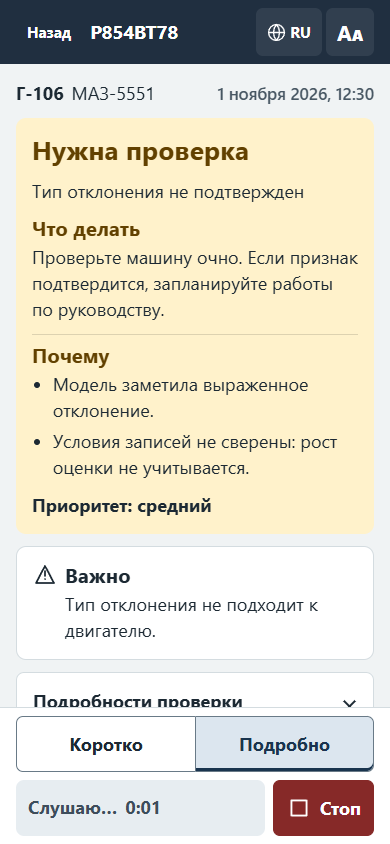
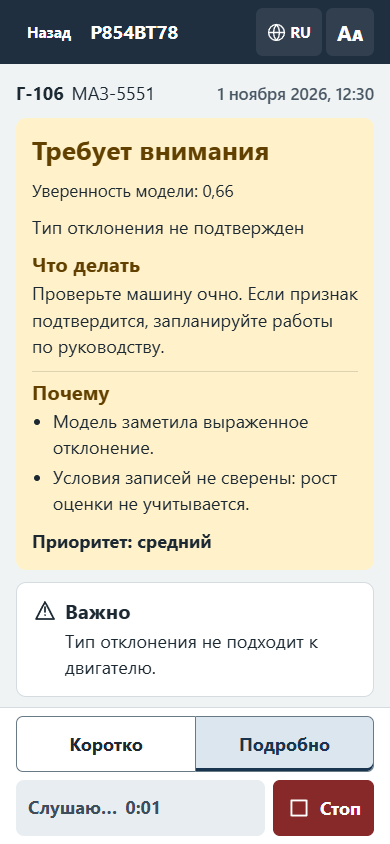
Дизайн: без цветной кромки у карточек, статус и причина по одной левой линии, знак запрета у карантина, стрелка на уровне номера; график оценки отклонения по проверкам (B2); статусы и кнопки как в ТЗ (карантин / требует внимания, «Получить результат диагностики», «Создать заявку»); источники в заявк

diff --git a/web/app.js b/web/app.js
@@ -15,9 +15,10 @@ let large = stored('mechanic:large') === 'true';
 let detail = stored('mechanic:detail') === 'detailed' ? 'detailed' : 'brief';
 let voiceConsent = stored('mechanic:voice-consent') === 'true';
 const t = (key, vars) => text(lang, key, vars);
-const displayText = value => String(value ?? '').replaceAll('\u2014', '–');
+// редакционная норма: короткое тире вместо длинного, в русском интерфейсе без «ё»
+const displayText = value => { const text = String(value ?? '').replaceAll('\u2014', '–'); return lang === 'ru' ? text.replaceAll('ё', 'е').replaceAll('Ё', 'Е') : text; };
 const stages = {
-  quarantine: ['quarantine', 'red', 'cross'], anomaly: ['anomaly', 'amber', 'warn'],
+  quarantine: ['quarantine', 'red', 'ban'], anomaly: ['anomaly', 'amber', 'warn'],
   check_failed: ['failed', 'violet', 'mic'], normal: ['normal', 'green', 'check'],
   unknown: ['noCheck', 'neutral', 'clock'],
 };
@@ -48,7 +49,7 @@ const paths = {
   check: 'm5 12 4 4L19 6', cross: 'm8 8 8 8m0-8-8 8', warn: 'M12 8v5m0 3v.1M3 20l9-17 9 17Z',
   book: 'M4 4h11l4 4v12H4Zm10 0v5h5M8 12h7m-7 4h7', send: 'm3 3 18 9-18 9 4-9Zm4 9h14', chart: 'M4 4v16h16M7 15l4-5 4 2 5-6',
   mic: 'M9 6a3 3 0 0 1 6 0v5a3 3 0 0 1-6 0ZM5 11a7 7 0 0 0 14 0m-7 7v4m-4 0h8',
-  stop: 'M5 5h14v14H5Z', globe: 'M2 12h20M12 2a10 10 0 1 1 0 20 10 10 0 1 1 0-20Zm0 0c5 5 5 15 0 20-5-5-5-15 0-20Z',
+  stop: 'M5 5h14v14H5Z', ban: 'M12 3a9 9 0 1 1 0 18 9 9 0 0 1 0-18ZM5.6 5.6l12.8 12.8', globe: 'M2 12h20M12 2a10 10 0 1 1 0 20 10 10 0 1 1 0-20Zm0 0c5 5 5 15 0 20-5-5-5-15 0-20Z',
   clock: 'M12 7v5l3 2m6-2a9 9 0 1 1-18 0 9 9 0 0 1 18 0Z', plus: 'M6 12h12m-6-6v12', minus: 'M6 12h12',
 };
 
@@ -104,6 +105,29 @@ const dateFor = value => {
   return moscow.format(date);
 };
 const checkTime = value => el('time', {datetime: value}, dateFor(value));
+const shortDate = value => {
+  const date = new Date(value);
+  return Number.isNaN(+date) ? '–' : new Intl.DateTimeFormat('ru-RU', {day: '2-digit', month: '2-digit', timeZone: 'Europe/Moscow'}).format(date);
+};
+// B2: столбики оценки отклонения по последним проверкам – HTML, а не SVG, чтобы подписи росли вместе с крупным шрифтом
+function scoreChart(v, sessions) {
+  const points = [...sessions].sort((a, b) => (Date.parse(a.checked_at) || 0) - (Date.parse(b.checked_at) || 0)).slice(-5);
+  if (points.length < 2) return null;
+  const bars = points.map((s, i) => {
+    const stage = vehicleStage(v, s, i === points.length - 1);
+    const value = score(s.anomaly_score) ? s.anomaly_score : null;
+    const tone = stages[stage]?.[1] || 'neutral';
+    return el('div', {class: 'bar-col', 'data-bar': s.session_id},
+      el('span', {class: 'bar-track'},
+        el('span', {class: 'bar-value'}, value === null ? t('noScore') : scoreText(value)),
+        el('span', {class: `bar ${tone}`, style: `height:calc(${value === null ? 0 : Math.max(.03, value).toFixed(2)} * (100% - 1.6em - 4px))`})),
+    );
+  });
+  const dates = el('div', {class: 'bar-dates', 'aria-hidden': 'true'}, points.map(s => el('span', {class: 'bar-date'}, shortDate(s.checked_at))));
+  return el('section', {class: 'box score-chart'}, el('h2', {}, t('scoreChart')),
+    el('div', {class: 'bars', role: 'img', 'aria-label': points.map(s => `${shortDate(s.checked_at)}: ${score(s.anomaly_score) ? scoreText(s.anomaly_score) : t('noScore')}`).join('; ')}, bars), dates,
+    hint(t('scoreScale')));
+}
 const endpoint = id => `${api}/vehicles/${encodeURIComponent(id)}`;
 const manualPath = (id, page) => `${api}/manuals/${encodeURIComponent(id)}/pages/${page}`;
 const jsonPost = body => ({method: 'POST', headers: {'Content-Type': 'application/json'}, body: JSON.stringify(body)});
@@ -335,6 +359,7 @@ function renderVehicle(v) {
     el('section', {class: 'box selection'}, el('h2', {}, t('lastCheck')),
       latest ? [checkTime(latest.checked_at), statusLine(vehicleStage(v, latest, true), latest),
         primary(t('diagnose'), () => openCheck(v, latest), {id: 'diagnose'})] : hint(t('noChecks'))),
+    scoreChart(v, sessions),
     details(t('checks'), past.length ? el('div', {class: 'checks'}, past.map(s =>
       action(el('span', {class: 'check-copy'}, checkTime(s.checked_at), statusLine(vehicleStage(v, s, false), s)),
         () => openCheck(v, s), {class: 'check-row', 'data-session': s.session_id}, icon('next')))) : hint(t('noPastChecks'))),
@@ -397,11 +422,12 @@ function verdict(c, d, id, opens) {
   const otherReasons = entries.filter((_, index) => !whyLines.includes(index));
   const card = el('div', {class: `verdict-head ${stages[status][1]}`}, el('h2', {}, vTitle),
     cause && el('p', {class: 'verdict-cause'}, t('hypothesis', {name: lowerStart(cause)})),
+    !fail && score(d.confidence) && el('p', {class: 'verdict-facts'}, `${t('confidence')}: ${scoreText(d.confidence)}`),
     incompatible && el('p', {}, t('notApplicable')),
-    fail && (d.description || d.reason) && el('p', {}, cleanQuote(d.description || d.reason)),
+    fail && (d.description || d.reason) && el('p', {}, t('rejectReason', {reason: lowerStart(cleanQuote(d.description || d.reason).replace(/^запись отбракована:\s*/iu, ''))})),
     el('div', {class: 'next-action'}, !normal && el('h3', {}, t('next')),
       el('p', {}, d.action || t(fail ? 'nextFail' : normal ? 'nextNormal' : 'nextAnomaly')),
-      fail && reasons(['recordTip1', 'recordTip2', 'recordTip3'].map(key => t(key)))),
+      fail && reasons(recordTips(d.description || d.reason).map(key => t(key)))),
     !fail && whyLines.length ? el('div', {class: 'verdict-why'}, el('h3', {}, t(normal ? 'note' : 'why')), reasons(whyLines.map(index => entries[index]))) : null,
     priorityLabel(d.urgency) && el('p', {class: 'priority-label'}, priorityLine(d.urgency)));
   const metrics = el('dl', {class: 'metrics'}, metric(t('score'), score(d.anomaly_score) ? `${scoreText(d.anomaly_score)} / 1` : null),
@@ -421,9 +447,16 @@ function citationLink(cite, label, attrs = {}) {
   }}, label);
 }
 // Keep common workshop measurements together without changing their values.
-const units = String.raw`мм рт\. ст\.|кгс(?:[·⋅]м|/см[²2])?|кПа|МПа|Па|бар|мм|см[²³23]?|км(?:/ч)?|мкм|м[²³23]?|об(?:/мин)?|мин|сек|ч|л(?:/мин)?|°[CFС]?|%|Н(?:[·⋅ ]м)?|кН|кг|мг|г|мл|В|А|Гц|кВт|mm|cm|km(?:/h)?|kg|kPa|MPa|Pa|bar|rpm|Nm|volts?|lit(?:er|re)s?|ms|Hz|kW|in|psi|s|m|h|V|A|L`;
+const units = String.raw`мм рт\. ст\.|кгс(?:[·⋅∙.]м|/см[²2])?|кПа|МПа|Па|бар|мм|см[²³23]?|км(?:/ч)?|мкм|м[²³23]?|об(?:/мин)?|мин|сек|ч|л(?:/мин)?|°[CFС]?|%|Н(?:[·⋅∙. ]м)?|кН|кг|мг|г|мл|В|А|Гц|кВт|mm|cm|km(?:/h)?|kg|kPa|MPa|Pa|bar|rpm|Nm|volts?|lit(?:er|re)s?|ms|Hz|kW|in|psi|s|m|h|V|A|L`;
 const decimal = '[−-]?\\d+(?:[.,]\\d+)?';
 const measurePattern = new RegExp(`(${decimal}\\s*[-–−]\\s*${decimal})(?:[ \u00a0]+(${units})(?![\\p{L}\\d]))?|(${decimal})[ \u00a0]+(${units})(?![\\p{L}\\d])`, 'giu');
+// советы по перезаписи – под конкретную причину отбраковки из ML, общий совет последним
+function recordTips(reason) {
+  const text = String(reason || '').toLocaleLowerCase('ru');
+  const specific = /перегруз|клиппинг|clip/u.test(text) ? 'recordTipLoud' : /оборот|холост/u.test(text) ? 'recordTipIdle'
+    : /шум|не слышен/u.test(text) ? 'recordTipNoise' : null;
+  return specific ? [specific, 'recordTip2'] : ['recordTip1', 'recordTip2', 'recordTip3'];
+}
 function measureNodes(value) {
   const nodes = [];
   let start = 0;
@@ -460,14 +493,22 @@ function markdown(text, citations, id, opens) {
     const nodes = [], pattern = allowBold ? /\*\*([^*]+)\*\*|\s*\[(\d+)\]/g : /\s*\[(\d+)\]/g;
     let start = 0;
     for (const match of value.matchAll(pattern)) {
-      nodes.push(...measureNodes(value.slice(start, match.index)));
-      if (allowBold && match[1]) nodes.push(el('strong', {}, inline(match[1], false)));
-      else {
-        const n = Number(match[allowBold ? 2 : 1]);
-        const cite = sources.get(n);
-        if (cite) nodes.push('\u00a0\u2060', citationLink(cite, `[${n}]`, {class: 'citation-chip inline-cite', 'aria-label': t('source', {n, name: cite.designation || cite.title, page: cite.page})}));
-        else nodes.push(match[0]);
+      const before = value.slice(start, match.index);
+      const n = allowBold && match[1] ? null : Number(match[allowBold ? 2 : 1]);
+      const cite = n === null ? null : sources.get(n);
+      if (cite) {
+        // ссылка [n] не уезжает на отдельную строку: держим её вместе с последним словом и знаком препинания после неё
+        const split = before.search(/\S+$/u);
+        const word = split < 0 ? '' : before.slice(split);
+        nodes.push(...measureNodes(split < 0 ? before : before.slice(0, split)));
+        const tail = value.slice(match.index + match[0].length).match(/^[.,;:!?)]+/u)?.[0] || '';
+        nodes.push(el('span', {class: 'nowrap'}, word, '\u00a0', citationLink(cite, `[${n}]`, {class: 'citation-chip inline-cite', 'aria-label': t('source', {n, name: cite.designation || cite.title, page: cite.page})}), tail));
+        start = match.index + match[0].length + tail.length;
+        continue;
       }
+      nodes.push(...measureNodes(before));
+      if (n === null) nodes.push(el('strong', {}, inline(match[1], false)));
+      else nodes.push(match[0]);
       start = match.index + match[0].length;
     }
     nodes.push(...measureNodes(value.slice(start)));
@@ -856,6 +897,15 @@ async function sendChat(c, mode, question = '') {
   }
 }
 
+function groupRefs(references) {
+  const groups = new Map();
+  for (const r of references) {
+    const name = r.title || r.manual;
+    if (!groups.has(name)) groups.set(name, []);
+    if (!groups.get(name).some(x => x.pdf_page === r.pdf_page && x.manual_id === r.manual_id)) groups.get(name).push(r);
+  }
+  return [...groups];
+}
 function field(c, name, label, rows, placeholder = '') {
   const grow = node => { node.style.height = 'auto'; node.style.height = `${node.scrollHeight + 2}px`; };
   const input = el('textarea', {name, rows, placeholder, required: name === 'conclusion', oninput: e => { c.edits[name] = e.target.value; grow(e.target); }});
@@ -879,14 +929,16 @@ function renderDraft(v, s, c) {
     el('section', {class: 'box stack'}, el('label', {class: 'field'}, el('span', {}, t('priority')), urgency), overrideField,
       details(t('whyPriority'), reasons(d.urgency_reasons))),
     el('section', {class: 'box stack'}, field(c, 'operations', t('work'), 2, t('newLine')), field(c, 'spare_parts', t('parts'), 1, t('newLine'))),
-    references.length ? el('section', {class: 'box stack'}, el('h3', {}, t('sources')), references.map(r => citationLink({manual_id: r.manual_id, title: r.title || r.manual, page: r.pdf_page}, [icon('book'), t('pageRef', {name: r.title || r.manual, page: r.pdf_page}), icon('next')], {class: 'source-link'}))) : null,
+    references.length ? el('section', {class: 'box stack'}, el('h3', {}, t('sources')), groupRefs(references).map(([name, refs]) =>
+      el('div', {class: 'ref-group'}, el('p', {class: 'ref-name'}, icon('book'), name),
+        el('div', {class: 'ref-pages'}, refs.map(r => citationLink({manual_id: r.manual_id, title: name, page: r.pdf_page}, t('pageShort', {page: r.pdf_page}), {class: 'page-chip', 'aria-label': t('pageRef', {name, page: r.pdf_page})})))))) : null,
     el('p', {id: 'ticket-error', role: 'alert', class: 'notice red', hidden: !c.confirmError}, c.confirmError || ''),
   );
   const warning = warnings(d.warnings);
   main.replaceChildren(context(v, s), el('div', {class: 'intro'}, pill(t('unsent'), 'neutral', 'clock'), title(t('draft'))), ...(warning ? [warning] : []), form);
   const blocked = () => c.draftNeedsInspection && !c.edits.inspectionConfirmed;
   const button = el('button', {id: 'confirm-ticket', class: 'primary full', type: 'submit', form: 'draft-form',
-    'aria-describedby': 'confirm-note'}, c.confirming ? t('sending') : t('confirm'), icon('check'));
+    'aria-describedby': 'confirm-note'}, c.confirming ? t('sending') : t('confirm'), icon('send'));
   const note = hint('', {id: 'confirm-note', role: 'status'});
   const syncConfirm = () => {
     button.disabled = Boolean(c.confirming || c.confirmUncertain || blocked());

diff --git a/web/styles.css b/web/styles.css
@@ -101,8 +101,8 @@ button:disabled { color: #4b5865; border-color: #8997a1; background: #e9eef1; cu
 .wide-link { width: 100%; justify-content: flex-start; padding-inline: 16px; color: var(--action); border-color: var(--line); }
 .wide-link .icon:last-child { margin-inline-start: auto; }
 .vehicle-list { display: grid; gap: 12px; }
-.vehicle-row, .check-row { width: 100%; padding: 14px 16px; border-color: var(--line); display: grid; grid-template-columns: minmax(0,1fr) 20px; align-items: center; text-align: left; font-weight: 400; }
-.vehicle-row > .icon, .check-row > .icon { width: 20px; color: var(--muted); }
+.vehicle-row, .check-row { width: 100%; padding: 14px 16px; border-color: var(--line); display: grid; grid-template-columns: minmax(0,1fr) 20px; align-items: start; text-align: left; font-weight: 400; }
+.vehicle-row > .icon, .check-row > .icon { width: 20px; color: var(--muted); margin-top: .35em; }
 .row-copy, .vehicle-head, .selection, .check-copy { display: grid; gap: 8px; min-width: 0; }
 .plate { justify-self: start; display: inline-flex; align-items: baseline; white-space: nowrap; font: 770 1.52rem/1.04 Arial, sans-serif; font-variant-numeric: lining-nums tabular-nums; font-feature-settings: 'zero' 0; letter-spacing: .025em; }
 .plate-region { margin-inline-start: 6px; border-inline-start: 1px solid var(--edge-line); padding-inline-start: 6px; font-size: .77em; }
@@ -110,13 +110,8 @@ button:disabled { color: #4b5865; border-color: #8997a1; background: #e9eef1; cu
 .row-model, .status-line { display: flex; flex-wrap: wrap; align-items: baseline; gap: 4px 8px; min-width: 0; }
 .row-model > span, .cause { overflow-wrap: anywhere; }
 .garage { white-space: nowrap; font-weight: 650; }
-.status-line { flex-direction: column; align-items: flex-start; }
-/* цветная кромка слева – статус читается боковым зрением ещё до текста */
-.vehicle-row { border-inline-start-width: 4px; }
-.vehicle-row[data-stage=quarantine] { border-inline-start-color: var(--red); }
-.vehicle-row[data-stage=anomaly] { border-inline-start-color: #d29a00; }
-.vehicle-row[data-stage=check_failed] { border-inline-start-color: var(--violet); }
-.vehicle-row[data-stage=normal] { border-inline-start-color: #3a9a63; }
+/* статус всегда отдельной строкой, причина под ним – одинаково во всех карточках, всё по одной левой кромке */
+.status-line { flex-direction: column; align-items: flex-start; gap: 4px; }
 .cause { color: var(--ink); }
 .vehicle-row .row-copy { gap: 6px; }
 .vehicle-row .row-date { color: var(--muted); font-size: .92rem; }
@@ -138,6 +133,21 @@ button:disabled { color: #4b5865; border-color: #8997a1; background: #e9eef1; cu
 .verdict-head h2 { font-size: 1.46rem; }
 .verdict-head p, .verdict-head li { color: var(--ink); }
 .verdict-cause { font-size: 1.08rem; }
+.verdict-facts { color: var(--ink); font-size: .94rem; }
+.score-chart { display: grid; gap: 12px; }
+.bars { display: grid; grid-auto-flow: column; grid-auto-columns: minmax(0, 1fr); gap: 10px; align-items: end; }
+.bar-col { display: grid; grid-template-rows: 150px auto; justify-items: center; gap: 6px; min-width: 0; }
+.bar-value { font-weight: 700; font-variant-numeric: tabular-nums; white-space: nowrap; font-size: .94rem; }
+.bar-track { display: flex; flex-direction: column; align-items: center; justify-content: flex-end; gap: 4px; width: 100%; height: 100%; }
+.bars { border-bottom: 2px solid var(--line); padding-bottom: 0; }
+.bars .bar-col { grid-template-rows: 150px; }
+.bar-dates { display: grid; grid-auto-flow: column; grid-auto-columns: minmax(0, 1fr); gap: 10px; justify-items: center; margin-top: -4px; }
+.bar { display: block; flex: none; max-height: calc(100% - 1.6em); width: min(44px, 70%); border-radius: 4px 4px 0 0; }
+.bar.green { background: #3a9a63; }
+.bar.amber { background: #d29a00; }
+.bar.red { background: var(--red); }
+.bar.violet, .bar.neutral { background: var(--violet); }
+.bar-date { color: var(--muted); font-size: .86rem; font-variant-numeric: tabular-nums; }
 .next-action, .verdict-why { display: grid; gap: 4px; }
 .verdict-why { padding-top: 8px; border-top: 1px solid #0002; }
 .priority-label { font-weight: 650; }
@@ -176,7 +186,7 @@ ol.fold-body { padding-inline-start: 30px; }
 .citation-row { display: flex; align-items: center; min-height: 48px; color: var(--action); text-decoration: underline; text-underline-offset: 3px; }
 .citation-excerpt { display: -webkit-box; -webkit-box-orient: vertical; -webkit-line-clamp: 2; overflow: hidden; }
 .source-excerpt.is-expanded .citation-excerpt { display: block; }
-.excerpt-toggle { justify-self: start; min-width: 48px; min-height: 48px; border-color: transparent; padding-inline: 0; font-size: .93rem; text-decoration: underline; color: var(--action); }
+.excerpt-toggle { justify-self: start; justify-content: flex-start; min-width: 48px; min-height: 48px; border-color: transparent; padding-inline: 0; font-size: .93rem; text-decoration: underline; color: var(--action); }
 .source-link { justify-content: flex-start; text-align: start; color: var(--green); overflow-wrap: anywhere; }
 .source-link .icon:last-child { margin-inline-start: auto; }
 .notice { padding: 12px; border-radius: 8px; }
@@ -213,7 +223,7 @@ ol.fold-body { padding-inline-start: 30px; }
 .field-static { display: grid; gap: 4px; }
 .field-static > span { font-weight: 700; }
 .field-static strong { font-weight: 600; }
-.field textarea { resize: vertical; max-height: 24em; overflow-y: auto; }
+.field textarea { resize: vertical; overflow-y: hidden; }
 @supports (field-sizing: content) { .field textarea { field-sizing: content; } }
 .receipt { display: grid; gap: 8px; padding: 16px; border-radius: var(--radius); }
 .receipt-id { font-size: 2rem; line-height: 1.1; }
@@ -256,3 +266,13 @@ dialog::backdrop { background: #172326b3; }
   .shell { height: auto; min-height: 100dvh; }
   main { overflow: visible; }
 }
+
+/* ссылка [n] держится с последним словом */
+.nowrap { white-space: nowrap; }
+/* источники в черновике: одно руководство – одна строка, страницы кнопками */
+.ref-group { display: grid; gap: 8px; }
+.ref-name { display: flex; align-items: center; gap: 8px; margin: 0; font-weight: 700; }
+.ref-name .icon { flex: none; color: var(--muted); }
+.ref-pages { display: flex; flex-wrap: wrap; gap: 8px; }
+.page-chip { display: inline-flex; align-items: center; min-height: var(--target); min-width: var(--target); padding: 8px 14px; border: 1px solid var(--edge-line); border-radius: 7px; background: var(--white); color: var(--action); font-weight: 700; text-decoration: none; font-variant-numeric: tabular-nums; }
+.page-chip:active { background: var(--active); }

diff --git a/app/priority.py b/app/priority.py
@@ -73,9 +73,9 @@ def evaluate(result: dict, engine: str, sessions: list[dict], tickets: list[dict
 
     # 1. Плохая запись – абсолютный приоритет: никаких выводов о двигателе и заявки.
     if status == "check_failed" or quality == "bad":
-        return Verdict("check_failed", None, "Запишите звук двигателя ещё раз: по этой записи судить нельзя.",
+        return Verdict("check_failed", None, "Запишите звук двигателя еще раз: по этой записи судить нельзя.",
                        False, ["Запись непригодна для анализа, оценка и уверенность не используются.",
-                               "Заявка по этой проверке не создаётся."], rule="R1-bad")
+                               "Заявка по этой проверке не создается."], rule="R1-bad")
 
     score, conf = result.get("anomaly_score"), result.get("confidence")
     hist_note = _history_note(past)
@@ -110,7 +110,7 @@ def evaluate(result: dict, engine: str, sessions: list[dict], tickets: list[dict
     if appl == "no":
         note = ENGINE_DRIVE_NOTE.get(code, "Такой класс неисправности не соответствует этому двигателю.")
         warnings.append(f"Класс {code} «{result.get('anomaly_title')}» не подходит к двигателю {engine}. {note} "
-                        "Вероятна ошибка ML-модели или карточки машины – нужен очный осмотр, диагноз по этой записи не подтверждён.")
+                        "Вероятна ошибка ML-модели или карточки машины – нужен очный осмотр, диагноз по этой записи не подтвержден.")
         return Verdict("anomaly", "medium", "Нужен очный осмотр: тип отклонения не соответствует двигателю этой машины.", True,
                        [f"Отклонение {fmt(score)} из 1, уверенность {fmt(conf)}, но класс {code} неприменим к {engine}.",
                         "Средний приоритет: машину стоит осмотреть, но конкретную неисправность по записи назвать нельзя."],
@@ -126,17 +126,17 @@ def evaluate(result: dict, engine: str, sessions: list[dict], tickets: list[dict
     if repeated:
         reasons.insert(0, f"Такое же отклонение уже было: {', '.join(_date(s) for s in repeated)}.")
     if growing:
-        reasons.insert(0, "Отклонение растёт от проверки к проверке.")
+        reasons.insert(0, "Отклонение растет от проверки к проверке.")
     if appl == "check":
         warnings.append(f"Убедитесь, что на этой машине есть узел «{result.get('anomaly_title')}»: для {engine} это зависит от комплектации.")
     if doubtful:
-        warnings.append("Запись с помехами или уверенность модели невысокая. Перезапись не нужна: сначала осмотрите узел на машине. Подтвердился признак – оформляйте заявку, не подтвердился – машина идёт в рейс.")
+        warnings.append("Запись с помехами или уверенность модели невысокая. Перезапись не нужна: сначала осмотрите узел на машине. Подтвердился признак – оформляйте заявку, не подтвердился – машина идет в рейс.")
 
     if sev == "C":
         urg, rule = "high", "R4-critical"
         action = ("Если машина в рейсе – остановиться в безопасном месте и заглушить двигатель. "
                   "На линию – только после дефектовки и устранения причины.")
-        reasons.insert(0, f"«{result.get('anomaly_title')}» – критичная неисправность: работа с ней может закончиться тяжёлой поломкой двигателя.")
+        reasons.insert(0, f"«{result.get('anomaly_title')}» – критичная неисправность: работа с ней может закончиться тяжелой поломкой двигателя.")
     elif sev == "S" and (strong or growing or (repeated and not doubtful)):
         urg, rule = "high", "R5-significant-strong"
         action = "Поставить на дефектовку в ближайшее время, в дальние рейсы не выпускать."

diff --git a/web/check_ui.py b/web/check_ui.py
@@ -57,7 +57,7 @@ def layout(page):
     expect(page.locator('#top h1')).to_have_text('Цифровой механик')
     expect(page.locator('label[for="vehicle-search"]')).to_have_text('Госномер или гаражный номер')
     expect(page.locator('.count')).to_have_text('Показано 8 из 50')
-    expect(page.locator('.vehicle-row').first).to_contain_text('Не выпускать')
+    expect(page.locator('.vehicle-row').first).to_contain_text('Карантин')
     page.get_by_role('button', name='Показать еще 42').click()
     expect(page.locator('.vehicle-row')).to_have_count(50)
     assert page.locator('body').evaluate("el => parseFloat(getComputedStyle(el).fontSize)") >= 18
@@ -77,14 +77,14 @@ def layout(page):
     page.locator('#font-size').click()
     open_chat(page)
     assert page.locator('.verdict-head h2').evaluate('el => parseFloat(getComputedStyle(el).fontSize)') >= 26
-    expect(page.locator('.verdict-head h2')).to_have_text('Нужна проверка')
+    expect(page.locator('.verdict-head h2')).to_have_text('Требует внимания')
     expect(page.locator('.verdict-cause')).to_have_text('Возможная причина: клапанный механизм')
     expect(page.locator('.next-action h3')).to_have_text('Что делать')
     expect(page.locator('.verdict-why li')).to_have_count(2)
     expect(page.locator('.verdict-why')).not_to_contain_text('Уверенность модели 0.85')
     expect(page.locator('.context time')).to_have_text('17 ноября 2026, 16:20')
     expect(page.locator('.metric').first).not_to_be_visible()
-    page.get_by_text('Подробности проверки', exact=True).click()
+    page.get_by_text('Цифры проверки', exact=True).click()
     expect(page.locator('.metric')).to_have_count(3)
     expect(page.locator('body')).not_to_contain_text('\u2014')
 
@@ -224,7 +224,7 @@ def inspection_required(page):
     assert notice.bounding_box()['y'] < command.bounding_box()['y']
     command.click()
     confirm = page.locator('#confirm-ticket')
-    check = page.get_by_role('checkbox', name='Признак подтверждён осмотром')
+    check = page.get_by_role('checkbox', name='Признак подтвержден осмотром')
     label = page.locator('label[for="inspection-confirmed"]')
     expect(check).not_to_be_checked()
     assert label.bounding_box()['height'] >= 56
@@ -285,7 +285,7 @@ def data_consent(page):
 def fleet_tickets(page):
     vehicles = page.request.get(f'{BASE}/api/vehicles').json()
     open_tickets = {v['vehicle_id']: v['open_ticket'] for v in vehicles if v['open_ticket']}
-    page.get_by_role('button', name='Сводка парка').click()
+    page.get_by_role('button', name='Режим главного механика').click()
     counter = page.get_by_role('button', name=re.compile('Заявок в работе'))
     expect(counter.locator('strong')).to_have_text(str(len(open_tickets)), timeout=1500)
     rows = page.locator('.vehicle-row')
@@ -547,7 +547,7 @@ def interactions(page):
     expect(page.locator('#send-question')).to_be_hidden()
     page.get_by_text('Объяснение помощника', exact=True).click()
     expect(page.locator('.agent-message').first).to_be_visible()
-    page.get_by_text('Что сделал помощник', exact=True).click()
+    page.get_by_text('Как помощник искал ответ', exact=True).click()
     expect(page.locator('.trace li')).to_have_count(1)
     q = page.locator('#question')
     q.fill('1\n2\n3\n4\n5\n6')
@@ -604,7 +604,7 @@ def interactions(page):
     expect(page.locator('[name="urgency_reason"]')).to_have_attribute('required', '')
     page.locator('[name="urgency_reason"]').fill('Очный осмотр')
     page.get_by_text('Почему такой приоритет', exact=True).click()
-    page.locator('.source-link').first.click()
+    page.locator('.page-chip').first.click()
     expect(page.locator('#manual-image')).to_be_visible()
     page.locator('#close-manual').click()
     page.go_back()

diff --git a/app/agent.py b/app/agent.py
@@ -253,7 +253,7 @@ class Agent:
                  "references": refs, "engine_model": self.engine}
         self.c.drafts[draft["draft_id"]] = draft
         self.emit({"type": "draft", "draft": draft})
-        out = {"draft_id": draft["draft_id"], "status": "черновик показан механику, ждёт его подтверждения кнопкой",
+        out = {"draft_id": draft["draft_id"], "status": "черновик показан механику, ждет его подтверждения кнопкой",
                "urgency": draft["urgency"]}
         if bad:
             out["rejected_references"] = bad
@@ -324,7 +324,7 @@ class Agent:
                     checked.text += "\n\n_Часть сведений не удалось подтвердить по руководству: проверьте по ссылкам перед работой._"
                 msgs.append({"role": "assistant", "content": answer})
                 self.emit({"type": "step", "tool": "verify", "title": "Проверка цифр и ссылок", "status": "done",
-                           "detail": f"ссылок: {len(checked.citations)}" + (f", замечаний: {len(checked.problems)}" if checked.problems else ", всё подтверждено")})
+                           "detail": f"ссылок: {len(checked.citations)}" + (f", замечаний: {len(checked.problems)}" if checked.problems else ", все подтверждено")})
                 self.emit({"type": "message", "text": checked.text, "citations": checked.citations,
                            "usage": self.c.usage.as_dict(), "unverified": checked.problems,
                            "first_pass_problems": first_problems})

diff --git a/app/main.py b/app/main.py
@@ -188,7 +188,7 @@ def chat(body: ChatIn, request: Request):
             a.run(text[:2000])
         except Exception as e:  # noqa: BLE001 – показываем механику понятную ошибку, детали в лог
             log.exception("agent failed")
-            q.put({"type": "error", "text": f"Не получилось выполнить запрос ({type(e).__name__}). Попробуйте ещё раз."})
+            q.put({"type": "error", "text": f"Не получилось выполнить запрос ({type(e).__name__}). Попробуйте еще раз."})
         finally:
             log.info("chat %s %s %.1fs usage=%s", body.vehicle_id, body.action or "msg", time.time() - t0, conv.usage.as_dict())
             audit.write("chat", conversation=body.conversation_id, vehicle=body.vehicle_id, session=body.session_id,
